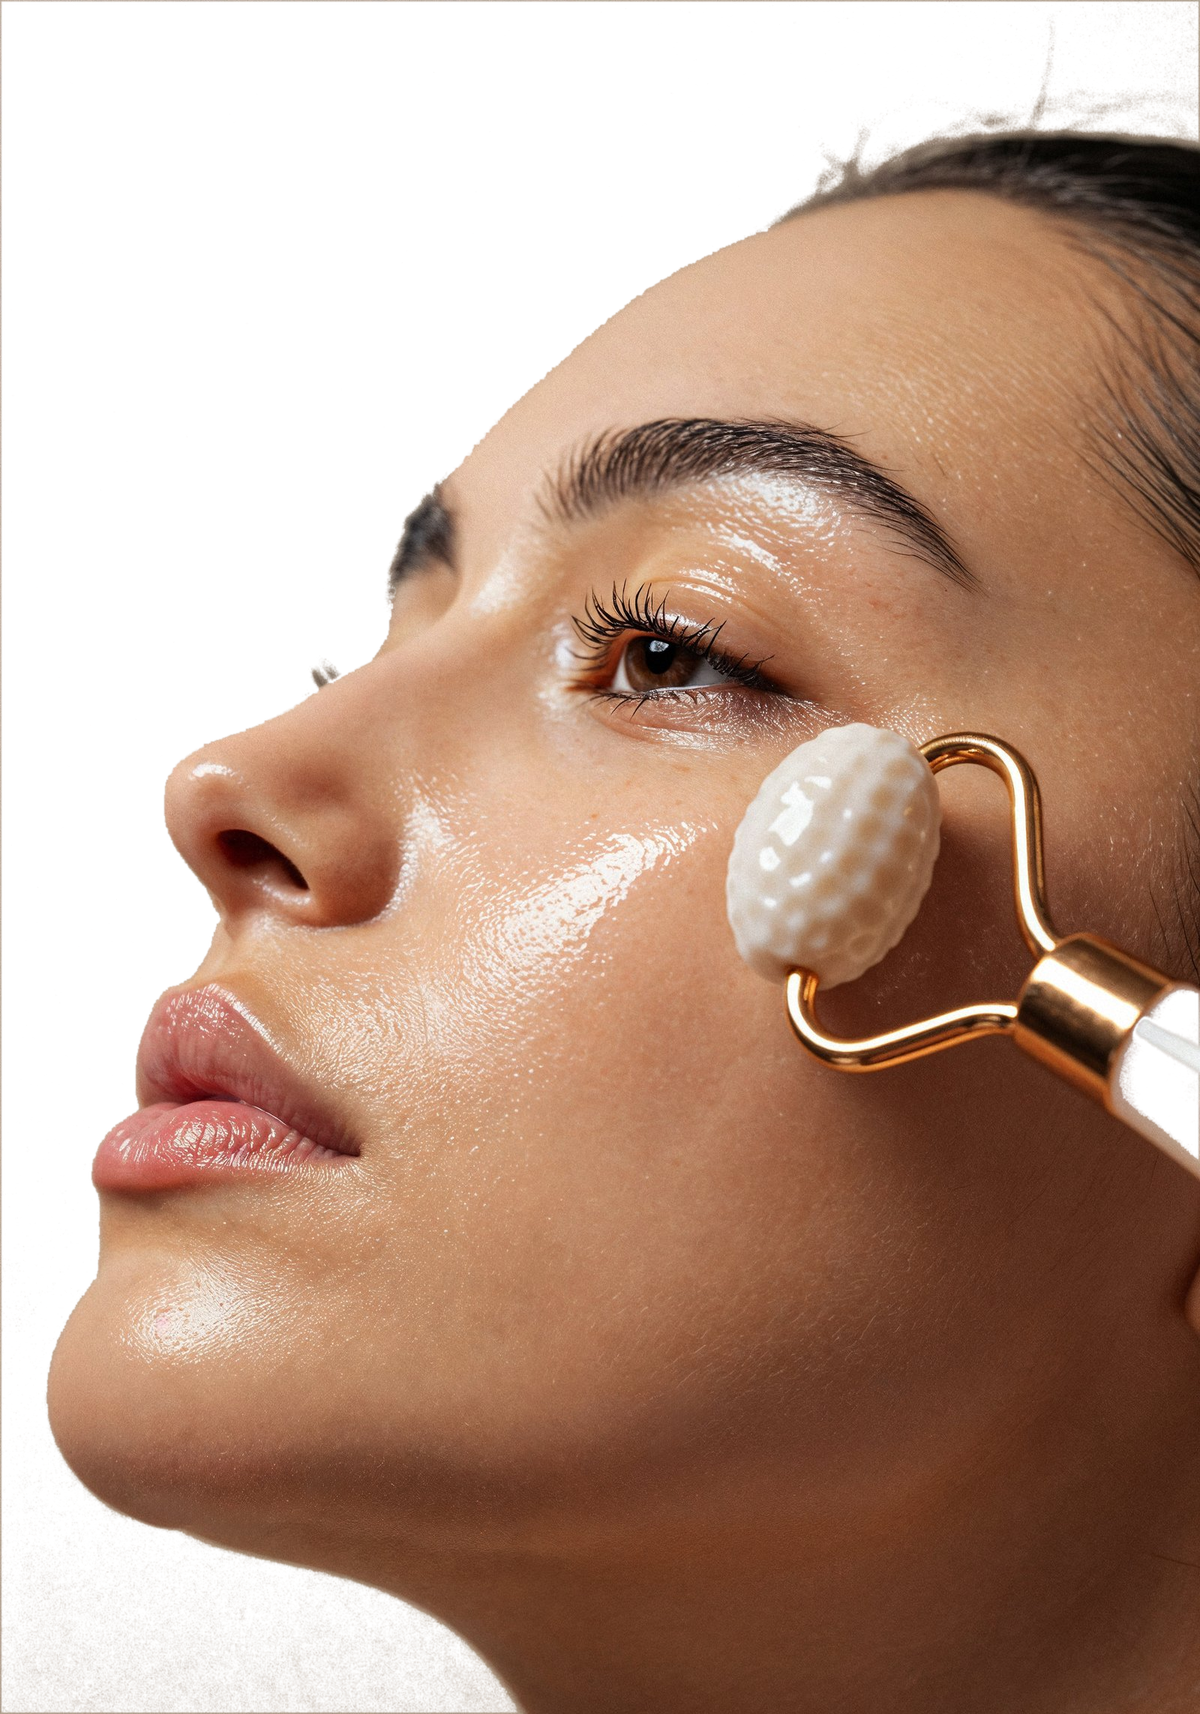
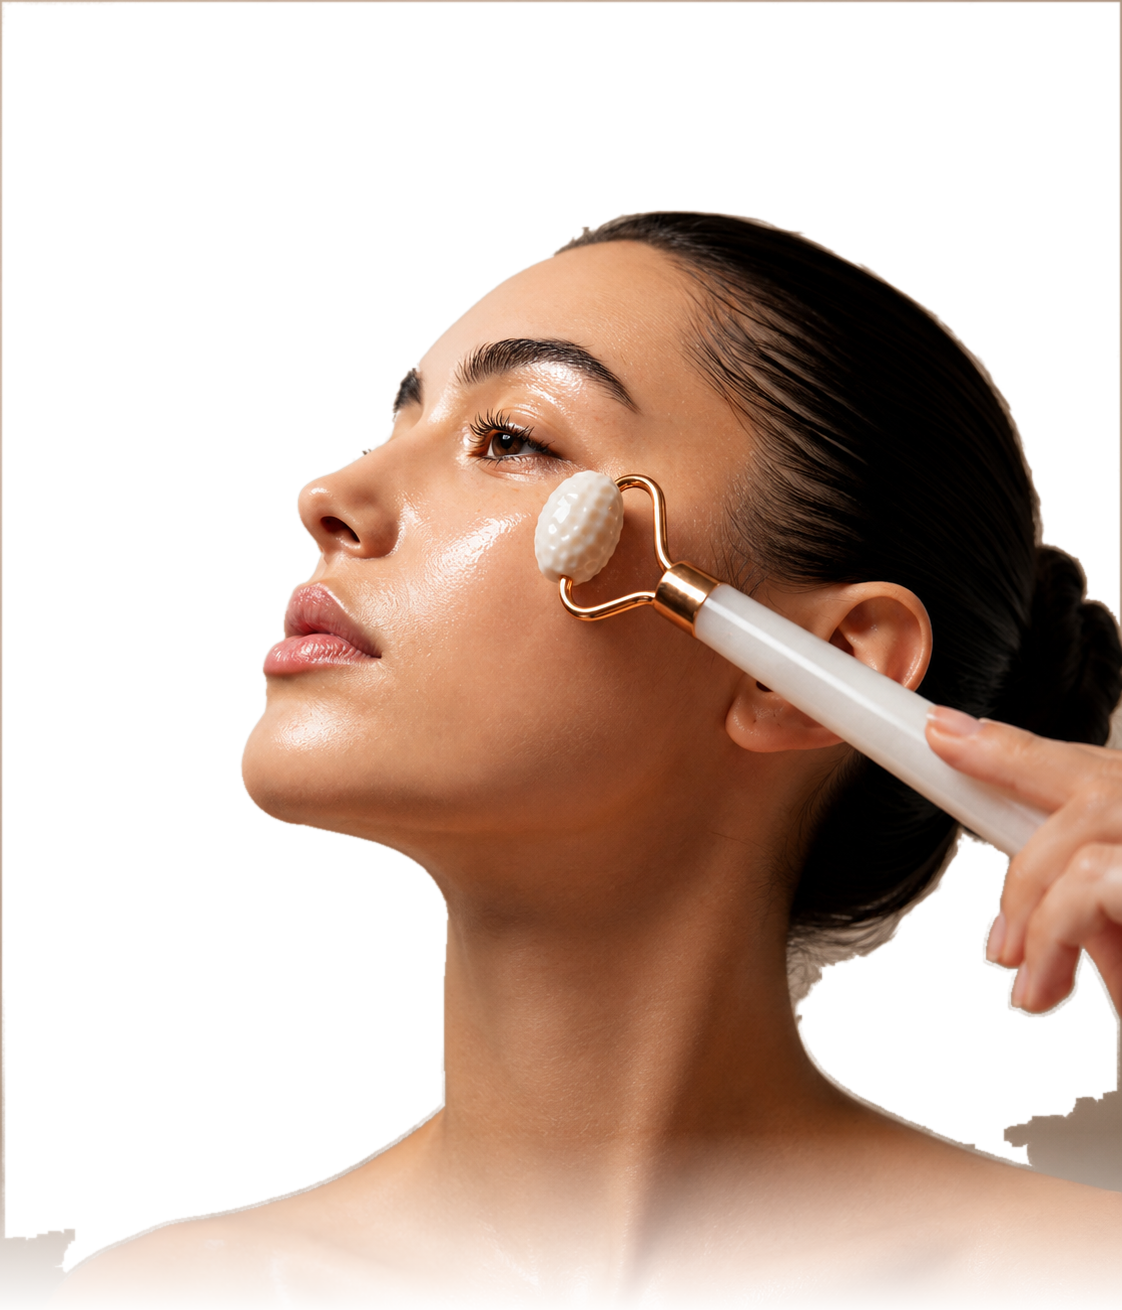
Swap in the fuller portrait, cut out properly, larger and unframed
The new photo has a vignetted backdrop that a flat threshold could not handle
- it left patches or ate the chest. make-face-cutout.py now models the
backdrop as a fitted quadratic surface per channel, refitted against its own
inliers, and seeds that fit from the top and sides only, since the subject
exits through the bottom. Saturation is a second gate where residual alone
cannot separate shadowed skin from shadowed backdrop, and the edge ramp is
confined to a band against the subject so the corners do not haze.

The bottom corners are colourimetrically identical to shadowed skin, so the
foot of the frame is trimmed and faded - which also softens the hard torso
crop.

In the section the portrait is larger and carries no shadow: on a soft-edged
cut-out a drop shadow traces the bounding box and reads as a border.

diff --git a/src/components/NourishSection.tsx b/src/components/NourishSection.tsx
@@ -136,16 +136,18 @@ export default function NourishSection({
         {/* Object slot 2 — the treatment photograph, cut out like the plant */}
         <div className="pointer-events-none absolute inset-x-0 bottom-[6%] flex justify-center">
           <div
-            className="w-[min(56vw,19rem)] will-change-transform"
+            className="w-[min(78vw,27rem)] will-change-transform"
             style={{ transform: `translate3d(0, ${faceY}%, 0)` }}
           >
+            {/* No shadow here: the subject is a soft-edged cut-out, so a drop
+                shadow would trace its bounding box and read as a border. */}
             <Image
               src="/ritual-face.png"
               alt=""
-              width={1200}
-              height={1714}
-              sizes="(min-width: 1024px) 304px, 56vw"
-              className="h-auto w-full drop-shadow-[0_24px_48px_rgb(30_47_33_/_0.25)]"
+              width={1122}
+              height={1310}
+              sizes="(min-width: 1024px) 432px, 78vw"
+              className="h-auto w-full"
             />
           </div>
         </div>

diff --git a/make-face-cutout.py b/make-face-cutout.py
@@ -1,17 +1,18 @@
-"""Lift the subject out of the face-roller photograph.
+"""Lift the subject out of a studio portrait.
 
-Skin and the backdrop are both warm, so a plain colour threshold would eat the
-face. Two things separate them reliably:
+Skin and a warm studio backdrop overlap heavily in colour, and the backdrop is
+rarely flat — these shots are lit with a vignette, so its tone drifts across the
+frame. A single threshold therefore either leaves patches behind or eats the
+skin.
 
-  * saturation — the backdrop sits around 41, skin around 83
-  * connectivity — the backdrop is one region touching the frame edge, while
-    skin never is except where the subject is cropped
+So the backdrop is *modelled* rather than thresholded: a quadratic surface is
+fitted per channel to pixels that look like backdrop, refitted a few times
+against its own inliers so the subject stops influencing it. Every pixel is then
+scored by how far it sits from that surface. The mask is grown inward from the
+frame edge, so anything the growth cannot reach — hair, the roller, the hand —
+survives regardless of its colour.
 
-So the mask is grown from backdrop-coloured border pixels and confined to
-low-saturation, backdrop-ish pixels. Anything the growth cannot reach stays
-opaque, which keeps hair and the roller intact.
-
-    python make-face-cutout.py  ->  public/ritual-face.png
+    FACE_SRC="photo.png" python make-face-cutout.py  ->  public/ritual-face.png
 """
 import os
 
@@ -19,39 +20,99 @@ from PIL import Image, ImageFilter
 import numpy as np
 from scipy import ndimage
 
-SRC = os.environ.get("FACE_SRC", "public/ritual-face.jpg")
-OUT = "public/ritual-face.png"
+SRC = os.environ.get("FACE_SRC", "public/face-source.png")
+OUT = os.environ.get("FACE_OUT", "public/ritual-face.png")
 
-SAT_MAX = 62      # backdrop ~41, skin ~83
-DIST_MAX = 52     # how far a pixel may stray from the sampled backdrop colour
-SOFT_LO = 20      # below this distance the pixel is certainly backdrop
-SOFT_HI = 46      # above it, certainly subject
+INLIER = 22.0     # residual within which a pixel is treated as backdrop when refitting
+GROW = 30.0       # residual the region growth is allowed to travel through
+SAT_MAX = 80      # second signal: backdrop measures ~50-66, skin ~90-125
+SOFT_LO = 12.0    # residual at or below which a pixel is fully transparent
+SOFT_HI = 30.0    # residual at or above which it is fully opaque
+MAX_WIDTH = 1200
+# The subject is cropped by the bottom of the frame, and the backdrop shadow in
+# the bottom corners is colourimetrically identical to shadowed skin — no
+# threshold separates them. Trimming and fading the foot of the frame removes
+# those patches and softens the hard torso crop at the same time.
+BOTTOM_CROP = 0.06
+BOTTOM_FADE = 0.14
 
 img = Image.open(SRC).convert("RGB")
-rgb = np.asarray(img).astype(np.int16)
+if img.width > MAX_WIDTH:
+    img = img.resize((MAX_WIDTH, round(MAX_WIDTH * img.height / img.width)), Image.LANCZOS)
+
+rgb = np.asarray(img).astype(np.float64)
 sat = np.asarray(img.convert("HSV")).astype(np.int16)[:, :, 1]
-
-# Sample the backdrop from the top-left, which is clear of the subject.
 h, w = rgb.shape[:2]
-ref = np.median(rgb[0 : h // 6, 0 : w // 5].reshape(-1, 3), axis=0)
-dist = np.abs(rgb - ref).max(axis=2)
 
-allowed = (dist <= DIST_MAX) & (sat <= SAT_MAX)
+ys, xs = np.mgrid[0:h, 0:w]
+xn, yn = xs / w, ys / h
+basis = np.stack([np.ones_like(xn), xn, yn, xn * xn, xn * yn, yn * yn], axis=-1)
+flat_basis = basis.reshape(-1, 6)
 
+# Seed the fit from the top and sides only. In a portrait the subject exits
+# through the BOTTOM of the frame, so including that edge would fit the model to
+# skin and the chest would then be cut away as if it were backdrop.
+band_h, band_w = max(2, h // 12), max(2, w // 12)
+seed_fit = np.zeros((h, w), dtype=bool)
+seed_fit[:band_h] = True
+seed_fit[: int(h * 0.72), :band_w] = True
+seed_fit[: int(h * 0.72), -band_w:] = True
+
+inliers = seed_fit.reshape(-1)
+for _ in range(4):
+    coeffs = [
+        np.linalg.lstsq(flat_basis[inliers], rgb[..., c].reshape(-1)[inliers], rcond=None)[0]
+        for c in range(3)
+    ]
+    model = np.stack([flat_basis @ coeffs[c] for c in range(3)], axis=-1).reshape(h, w, 3)
+    residual = np.abs(rgb - model).max(axis=2)
+    inliers = (residual < INLIER).reshape(-1)
+
+# Grow the backdrop inward from the frame edge.
+#
+# Residual alone is not enough: skin in shadow at the bottom of the frame sits
+# only 15-22 from the extrapolated surface, overlapping the backdrop's 3-12.
+# Saturation is the clean second signal there, so a pixel must satisfy both.
+allowed = (residual <= GROW) & (sat <= SAT_MAX)
 seed = np.zeros_like(allowed)
 seed[0, :] = allowed[0, :]
 seed[-1, :] = allowed[-1, :]
 seed[:, 0] = allowed[:, 0]
 seed[:, -1] = allowed[:, -1]
-
 backdrop = ndimage.binary_propagation(seed, mask=allowed)
-# Close pinholes the growth left behind (specks of shadow on the wall).
-backdrop = ndimage.binary_closing(backdrop, structure=np.ones((5, 5)))
 
-# Soft edge: inside the grown region fade by how backdrop-like the pixel is,
-# so the cut follows the photograph's own antialiasing instead of stair-stepping.
-soft = np.clip((dist - SOFT_LO) / float(SOFT_HI - SOFT_LO), 0.0, 1.0)
-alpha = np.where(backdrop, soft, 1.0)
+# Close pinholes in the backdrop, then drop any small islands the growth punched
+# into the subject (specular highlights on skin read as backdrop-coloured).
+backdrop = ndimage.binary_closing(backdrop, structure=np.ones((5, 5)))
+subject = ~backdrop
+lbl, n = ndimage.label(subject)
+if n:
+    sizes = ndimage.sum(subject, lbl, range(1, n + 1))
+    keep = np.isin(lbl, 1 + np.flatnonzero(sizes > 0.002 * subject.size))
+    subject = keep
+holes = ndimage.binary_fill_holes(subject) & ~subject
+lbl, n = ndimage.label(holes)
+if n:
+    sizes = ndimage.sum(holes, lbl, range(1, n + 1))
+    small = np.isin(lbl, 1 + np.flatnonzero(sizes < 0.004 * holes.size))
+    subject = subject | small
+backdrop = ~subject
+
+# Soft edge follows the photograph's own antialiasing — but only in a narrow
+# band against the subject. Applied across the whole backdrop it leaves a haze
+# wherever the backdrop drifts furthest from the model, i.e. the frame corners.
+soft = np.clip((residual - SOFT_LO) / (SOFT_HI - SOFT_LO), 0.0, 1.0)
+band = ndimage.binary_dilation(subject, structure=np.ones((3, 3)), iterations=3) & backdrop
+alpha = np.where(backdrop, np.where(band, soft, 0.0), 1.0)
+
+keep = int(h * (1 - BOTTOM_CROP))
+alpha = alpha[:keep]
+fade_from = int(keep * (1 - BOTTOM_FADE))
+ramp = np.ones(keep)
+ramp[fade_from:] = np.linspace(1, 0, keep - fade_from)
+alpha = alpha * ramp[:, None]
+
+img = img.crop((0, 0, w, keep))
 
 mask = Image.fromarray((alpha * 255).astype(np.uint8), "L")
 mask = mask.filter(ImageFilter.GaussianBlur(radius=0.8))
@@ -63,4 +124,4 @@ out = out.crop(bbox)
 out.save(OUT, optimize=True)
 
 print("%s %s  %d KB" % (OUT, out.size, os.path.getsize(OUT) / 1024))
-print("removed %.1f%% of the frame as backdrop" % (100 * backdrop.mean()))
+print("removed %.1f%% as backdrop" % (100 * backdrop.mean()))
